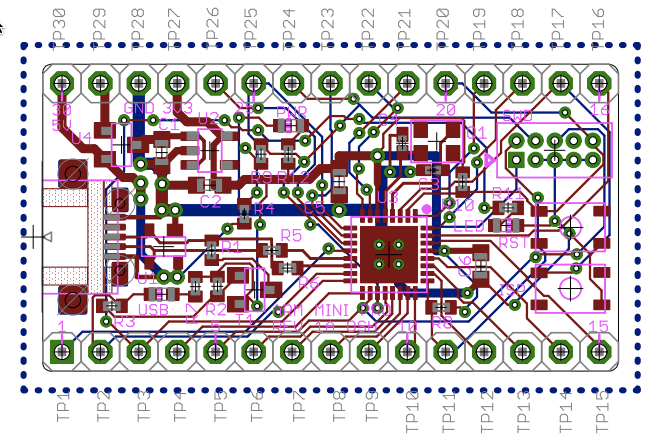
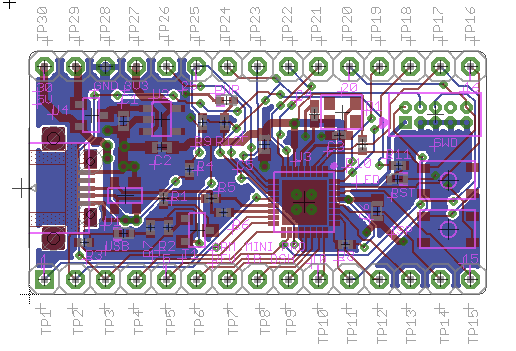
Updated board layout image, added link for OSHpark ordering.

diff --git a/pro-mini/README.md b/pro-mini/README.md
@@ -266,7 +266,7 @@ When customizing for your own board, you can eliminate the optional parts that y
 
 ![](www/arm_pro_mini_board.png)
 
-Building a ARM PRO MINI is stragiht forward as long as you are comfortable with working with SMT devices. The BOM is available here https://github.com/zapta/arm/blob/master/pro-mini/eagle/arm-pro-mini-bom.pdf?raw=true and all components can be sourced from Digikey. The PCB is two layers with trace/spacing requirements that are compatible with inexpensive vendors such as Elecrow and OSHPark and the repository includes both eagle and gerber files (generated with Elecrow CAM file). For prototypes we used Elecrow 5x5cm max 1mm HASL PCB and 0.12mm (~5mil) laser cut metal stencil. Initial programming of a bootloader is not required and the board is ready to use once it assembled.
+Building a ARM PRO MINI is stragiht forward as long as you are comfortable with working with SMT devices. The BOM is available here https://github.com/zapta/arm/blob/master/pro-mini/eagle/arm-pro-mini-bom.pdf?raw=true and all components can be sourced from Digikey. The PCB is two layers with trace/spacing requirements that are compatible with inexpensive vendors such as Elecrow and [OSHPark](https://oshpark.com/shared_projects/fw5118z7) and the repository includes both eagle and gerber files (generated with Elecrow CAM file). For prototypes we used Elecrow 5x5cm max 1mm HASL PCB and 0.12mm (~5mil) laser cut metal stencil. Initial programming of a bootloader is not required and the board is ready to use once it assembled.
 
 
 <br>
